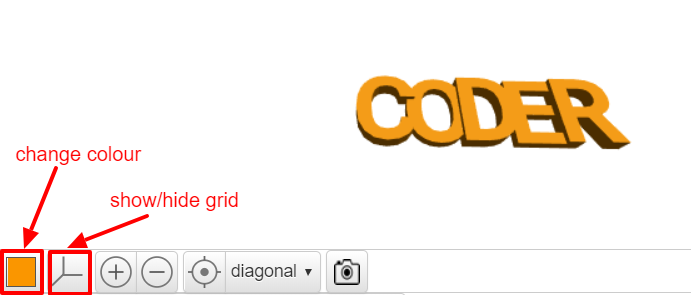
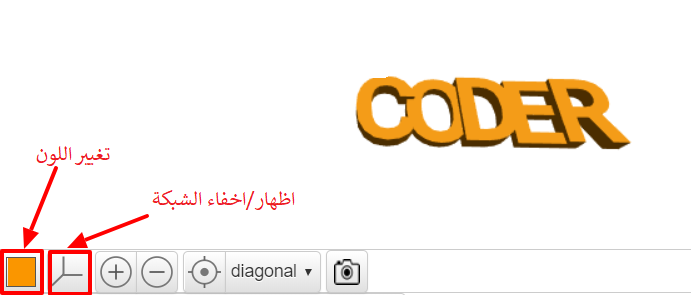
Correct Arabic

Changed region(s): [[0.152, 0.6407, 0.4255, 0.7322], [0.0, 0.4881, 0.2127, 0.5797], [0.547, 0.2441, 0.5774, 0.2746]]

diff --git a/ar-SA/step_3.md b/ar-SA/step_3.md
@@ -12,17 +12,17 @@
 
 --- /task --- --- task ---
 
-الكتلة `اتحاد`{:class="blockscadsetops"} تربط الأشكال معا. ابدأ بالحرفين الأولين من "CODER".
+الكتلة `union`{:class="blockscadsetops"} تربط الأشكال معا. ابدأ بالحرفين الأولين من "CODER".
 
 ![لقطة الشاشة](images/coder-co.png)
 
-الكتل مرقمة بالألوان. انظر تحت `تعيين الخيارات `{:class="blockscadsetops"} للعثور على `union`{:class="blockscadsetops"}.
+الكتل مرقمة بالألوان. انظر تحت `Set Ops`{:class="blockscadsetops"} للعثور على `union`{:class="blockscadsetops"}.
 
 لاحظ أن الكتلة `3D Text`{:class="blockscad3dshapes"} موجودة تحت `Text`{:class="blockscadstext"}، بالرغم من أنها خضراء.
 
 --- /task --- --- task ---
 
-انقر فوق Render وسترى أن هناك مشكلة: 'C' و 'O' في نفس المكان.
+انقر فوق **Render** وسترى أن هناك مشكلة: 'C' و 'O' في نفس المكان.
 
 ![لقطة الشاشة](images/coder-same-place.png)
 
@@ -30,7 +30,7 @@
 
 --- /task --- --- task ---
 
-إضافة كتلة `ترجمة `{:class="blockscadtransforms"} وضبط قيمة `X` إلى `10` لتحريك 'O' 10 مم على طول المحور السيني.
+قم بإضافة كتلة `translate`{:class="blockscadtransforms"} وضبط قيمة `X` إلى `10` لتحريك الحرف 'O'١٠مم على طول المحور السيني.
 
 ![لقطة الشاشة](images/coder-translate.png)
 
@@ -42,7 +42,7 @@
 
 --- /task --- --- task ---
 
-انقر بالزر الأيمن على الكتلة `ترجمة `{:class="blockscadtransforms"} وحدد تكرار  لإنشاء نسخة.
+انقر بالزر الأيمن على الكتلة `translate`{:class="blockscadtransforms"} وحدد **Duplicate** لإنشاء نسخة.
 
 ![لقطة الشاشة](images/coder-duplicate.png)
 
@@ -54,7 +54,7 @@
 
 --- /task --- --- task ---
 
-قم بتغيير القيمة `X` من الكتلة الثانية `ترجمة `{:class="blockscadtransforms"} بحيث يكون 'D' في المكان الصحيح.
+قم بتغيير القيمة `X` من الكتلة الثانية `translate`{:class="blockscadtransforms"} بحيث يكون 'D' في المكان الصحيح.
 
 --- hints ---
  --- hint ---

diff --git a/ar-SA/step_1.md b/ar-SA/step_1.md
@@ -28,7 +28,7 @@ title: ما ستحتاج إليه
 
 ### البرامج
 
-+ يمكن إكمال هذا المشروع في متصفح ويب باستخدام BlocksCAD [blockscad3d.com/المحرر/](https://www.blockscad3d.com/editor){: target = "_ blank"}
++ يمكن إكمال هذا المشروع في متصفح ويب باستخدام BlocksCAD [blockscad3d.com/المحرر/](https://www.blockscad3d.com/editor){:target="_blank"}
 
 --- /collapse ---
 
@@ -39,7 +39,7 @@ title: ما الذي سوف تتعلمه
 
 + كيفية إنشاء كائن بسيط ثلاثي الأبعاد يمكن طباعته بشكل ثلاثي الأبعاد
 + كيفية العمل مع محاور X, Y و Z
-+ كيفية استخدام `ترجمة ` لوضع كائن ثلاثي الأبعاد
++ كيفية استخدام `ترجمة` لوضع كائن ثلاثي الأبعاد
 
 --- /collapse ---
 
@@ -48,7 +48,7 @@ title: ما الذي سوف تتعلمه
 title: معلومات إضافية للمعلمين
 ---
 
-اذا كنت ترغب بطباعة هذا المشروع، الرجاء استخدام [نسخة سهلة الطباعة](https://projects.raspberrypi.org/ar-SA/projects/blockscad-coder-keyring/print){:target="_blank"}.
+اذا كنت ترغب بطباعة هذا المشروع، الرجاء استخدام [نسخة سهلة الطباعة](https://projects.raspberrypi.org/ar-SA/projects/blockscad-coder-keyring/print) {:target="_blank"}.
 
 قم بتنزيل الكود البرمجي للمشروع النهائي من [http://rpf.io/p/ar-SA/blockscad-coder-keyring-get](http://rpf.io/p/ar-SA/blockscad-coder-keyring-get).
 

diff --git a/ar-SA/step_2.md b/ar-SA/step_2.md
@@ -2,7 +2,7 @@
 
 --- task ---
 
-افتح محرر BlocksCAD في متصفح ويب [blockscad3d.com/محرر/](https://www.blockscad3d.com/editor/){:target="_blank"}.
+افتح محرر BlocksCAD في متصفح ويب [blockscad3d.com/editor/](https://www.blockscad3d.com/editor/){:target="_blank"}.
 
 يمكنك سحب وإفلات الكتل البرمجية لكتابة التعليمات البرمجية لإنشاء كائنات ثلاثية الأبعاد.
 
@@ -12,13 +12,13 @@
 
 --- task ---
 
-انقر فوق `نص`{:class="blockscadtext"} ثم اسحب كتلة `نص ثلاثي الابعاد `{:class="blockscadtext"} إلى اللوحة.
+انقر فوق `Text`{:class="blockscadtext"} ثم اسحب كتلة `3D Text`{:class="blockscadtext"} إلى اللوحة.
 
 ![لقطة الشاشة](images/coder-canvas.png)
 
 --- /task --- --- task ---
 
-قم بتغيير النص ` ثلاثي الأبعاد ` إدخال ليقول "CODER".
+قم بتغيير إدخال النص ` 3D text` ليقول "CODER".
 
 ![لقطة الشاشة](images/coder-coder.png)
 
@@ -32,7 +32,7 @@
 
 --- /task --- --- task ---
 
-لجعل الحروف أكبر ، قم بتغيير `الحجم` إلى `20` - وهذا يعني حجم الخط 20.
+لجعل الحروف أكبر ، قم بتغيير `size` إلى `20` - وهذا يعني حجم الخط 20.
 
 ![لقطة الشاشة](images/coder-bigger.png)
 

diff --git a/ar-SA/step_6.md b/ar-SA/step_6.md
@@ -21,7 +21,7 @@
 --- hints ---
  --- hint ---
 
-هذه المرة ، ستحتاج إلى ` ترجمة ` الحروف على طول المحور ص.
+هذه المرة ، ستحتاج إلى `ترجمة` الحروف على طول المحور ص.
 
 --- /hint ------ /hints ---
 
@@ -36,7 +36,7 @@
 --- hints ---
  --- hint ---
 
-هذه المرة، ستحتاج إلى `ترجمة ` 'o' على طول المحورين السيني و الصادي.
+هذه المرة، ستحتاج إلى ترجمة `translate` الحرف 'o' على طول المحورين السيني و الصادي.
 
 --- /hint ------ /hints ---
 

diff --git a/ar-SA/step_8.md b/ar-SA/step_8.md
@@ -20,5 +20,7 @@
 
 رائد موسى الجعفري
 طيبة باسم محمد
+نادية علي قاسم
 
 بفضل المتطوعين ، يمكننا إعطاء الناس في جميع أنحاء العالم فرصة للتعلم بلغتهم الخاصة. يمكنك مساعدتنا في الوصول إلى المزيد من الأشخاص من خلال التطوع للترجمة - مزيد من المعلومات على [rpf.io/translate](https://rpf.io/translate).
+
